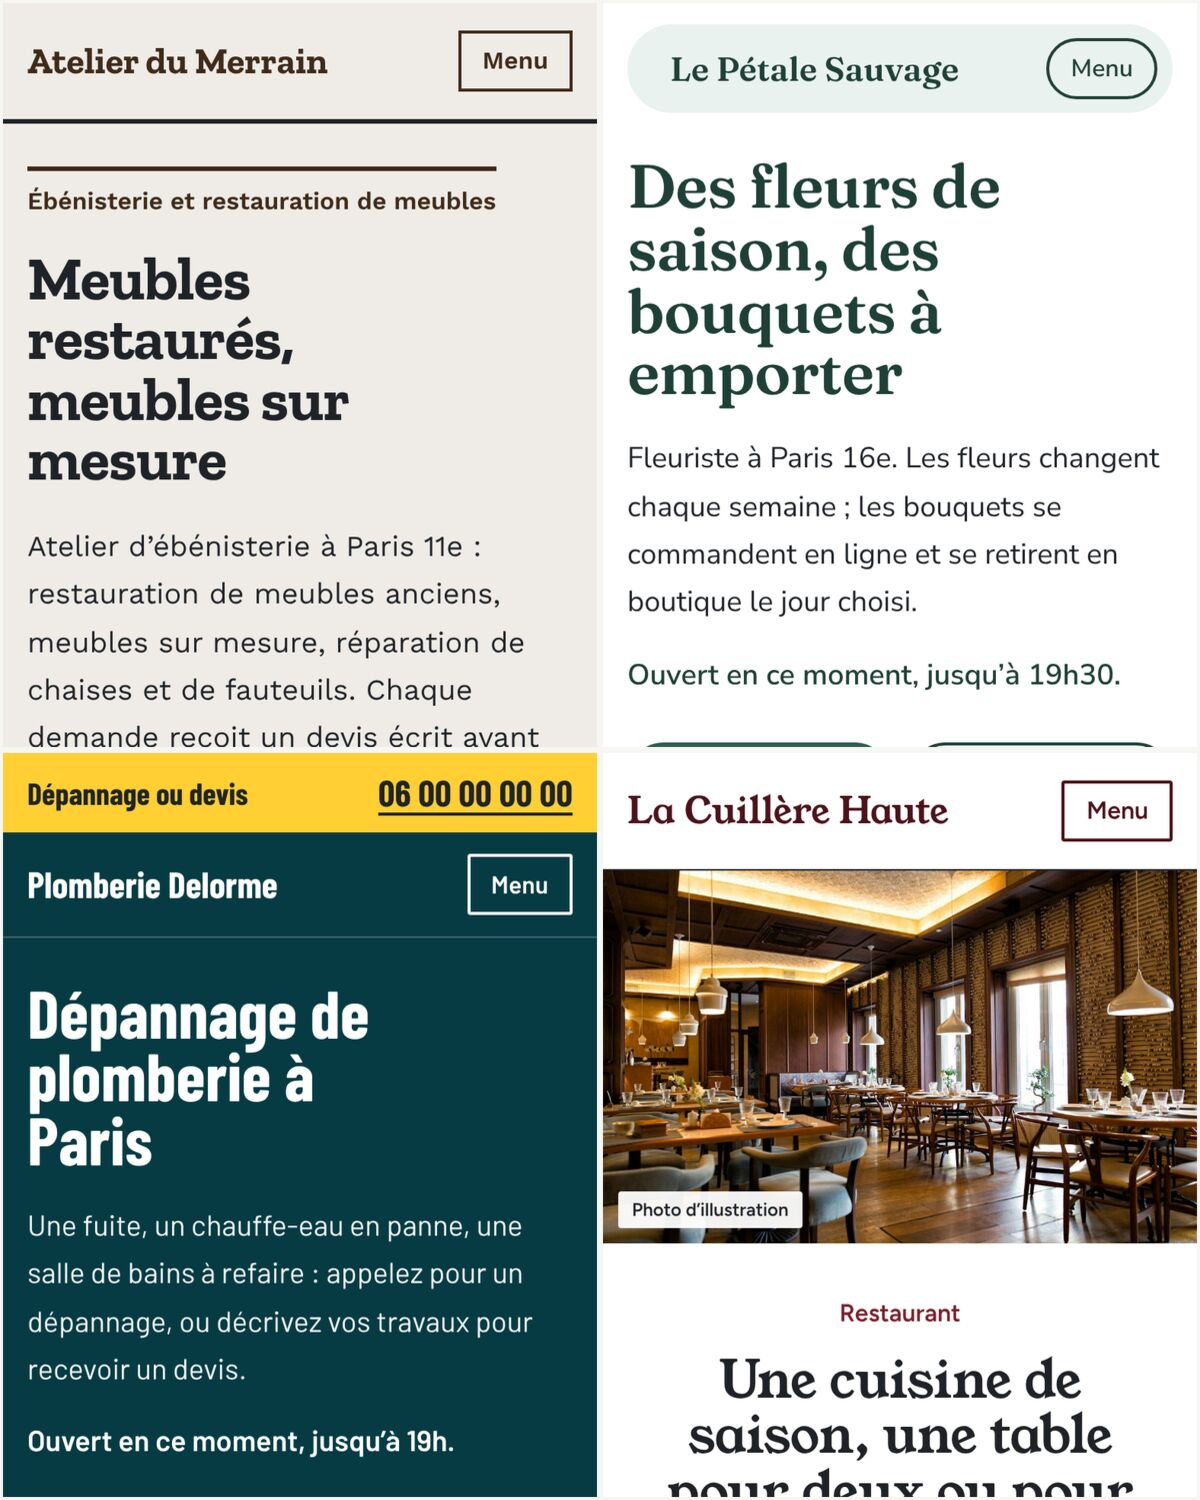
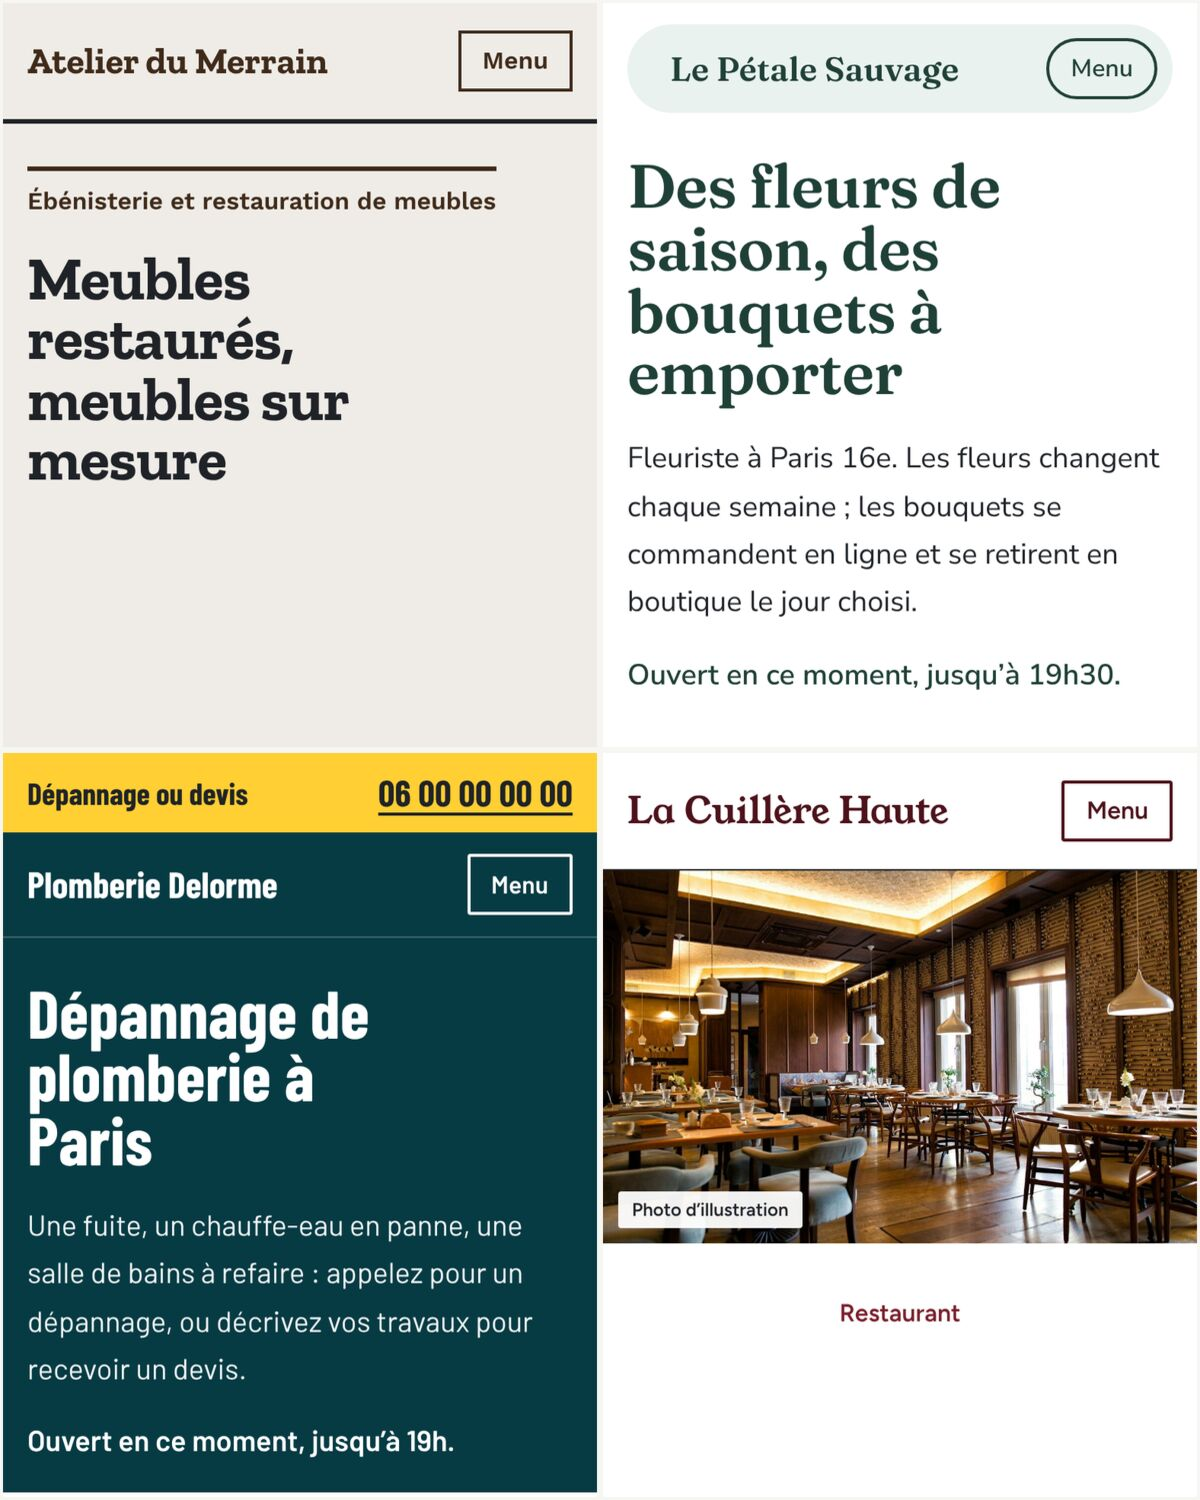
Design édition : vignettes coupées sur un bloc entier, fondus et traits sous les titres retirés, alignement du premier écran, crédits lisibles ; reprise mise à jour
Claude-Session: https://claude.ai/code/session_01KmWuHobznHmM7V82BQaya5

diff --git a/public/assets/site.css b/public/assets/site.css
@@ -522,7 +522,7 @@ select.saisie{background-image:linear-gradient(45deg,transparent 50%,var(--gris)
 /* ====== Gabarit « édition » (theme.gabarit = "edition") ======
    Une page tenue comme un document imprimé : papier blanc, encre, un seul bleu (le bleu de travail) rare et franc, angles droits, filets fins,
    titres en Besley, texte en Schibsted Grotesk. Les chiffres et les prix sont composés comme dans un tarif. Aucun dégradé, aucune pastille, aucune capitale espacée. */
-.g-edition{--r:0px;--gris:#3f444b;--bleu:var(--marine);--gut:clamp(20px,4vw,56px);--fil:1px solid var(--trait);--filfort:1px solid var(--encre);font-size:1.0625rem;line-height:1.62;font-feature-settings:"kern","liga"}
+.g-edition{--r:0px;--gris:#3f444b;--bleu:var(--marine);--gut:clamp(20px,4vw,48px);--fil:1px solid var(--trait);--filfort:1px solid var(--encre);font-size:1.0625rem;line-height:1.62;font-feature-settings:"kern","liga"}
 .g-edition [id]{scroll-margin-top:96px}
 .g-edition h1,.g-edition h2,.g-edition h3{font-family:var(--titres);font-weight:500;line-height:1.04;letter-spacing:-.02em;text-wrap:balance;color:var(--encre)}
 .g-edition h3{font-weight:600;letter-spacing:-.012em}
@@ -885,8 +885,7 @@ select.saisie{background-image:linear-gradient(45deg,transparent 50%,var(--gris)
 /* Révision 3 : un seul univers (papier, encre, bleu), le noir réservé au pied de page ; trait signature : le filet bleu */
 .g-edition .hero{padding-bottom:clamp(8px,2vw,24px)}
 .g-edition .hero + .sec{padding-top:clamp(40px,5vw,72px)}
-.g-edition .sec-tete h2::before,.g-edition .intro-txt h2::before,.g-edition .essai-txt h2::before{content:"";display:block;width:44px;height:4px;background:var(--bleu);margin-bottom:24px}
-.g-edition .intro-txt h2,.g-edition .essai-txt h2,.g-edition .sec-tete h2{font-size:clamp(1.875rem,3.4vw,2.75rem);max-width:16ch}
+.g-edition .intro-txt h2,.g-edition .essai-txt h2,.g-edition .sec-tete h2{font-size:clamp(1.875rem,3.4vw,2.75rem);max-width:20ch}
 .g-edition .etape-num{display:none}
 .g-edition .etapes>li{border-top:var(--filfort);padding-top:22px}
 .g-edition .etapes>li{position:relative}
@@ -921,7 +920,7 @@ select.saisie{background-image:linear-gradient(45deg,transparent 50%,var(--gris)
 .g-edition .intro-img{aspect-ratio:auto;height:440px;width:100%;object-fit:cover;object-position:top;-webkit-mask-image:linear-gradient(#000 calc(100% - 64px),transparent);mask-image:linear-gradient(#000 calc(100% - 64px),transparent);border:var(--fil);border-bottom:0}
 
 /* Démonstrations : quatre captures en deux colonnes, assez grandes pour être lues */
-.g-edition .essai-vue{aspect-ratio:5/4;-webkit-mask-image:linear-gradient(#000 calc(100% - 40px),transparent);mask-image:linear-gradient(#000 calc(100% - 40px),transparent);border-bottom:0}
+.g-edition .essai-vue{aspect-ratio:4/5}
 .g-edition .essai-liens{grid-template-columns:minmax(0,1fr)}
 .g-edition .essai-liens b{font-size:1.5rem}
 .g-edition .essai-liens small{font-size:1rem}
@@ -942,10 +941,12 @@ select.saisie{background-image:linear-gradient(45deg,transparent 50%,var(--gris)
 .g-edition .portrait-vide{display:none}
 .g-edition .equipe b{font-family:var(--titres);font-weight:500;font-size:1.5rem;letter-spacing:-.015em}
 .g-edition .tete-page .metier-prix{margin:20px 0 0}
-.g-edition .metier-img{-webkit-mask-image:linear-gradient(#000 calc(100% - 56px),transparent);mask-image:linear-gradient(#000 calc(100% - 56px),transparent);border-bottom:0}
 .g-edition .intro-grille:not(:has(.intro-fig)){grid-template-columns:minmax(0,1fr)}
 .g-edition .equipe{display:block}
 .g-edition .equipe li{max-width:none}
 .g-edition .equipe b{display:block}
 .g-edition .intro-grille:not(:has(.intro-fig)) .prose-grande{max-width:none;width:100%}
 .g-edition .intro-grille:not(:has(.intro-fig)) .prose-grande > :first-child{max-width:20ch}
+
+.g-edition .pied .credits{font-size:.8125rem;line-height:1.65;color:rgba(255,255,255,.72)}
+.g-edition .essai-vue .essai-img{object-position:top}

diff --git a/docs/REPRISE.md b/docs/REPRISE.md
@@ -22,6 +22,8 @@
 
 **Skills « founder »** : les scripts du dépôt MIT n'ont **pas** été exécutés (le système de permissions l'a refusé). J'ai écrit un petit script équivalent (`docs/validation-2026-10-28/panel_greg.py`) ; voir `RESULTATS.md`. Ne pas insister pour les installer sans accord explicite de Greg.
 
+**Design (révision 3, 28/10/2026).** Un seul univers visuel (papier, encre, un bleu), noir réservé au pied de page, offres en volets, démonstrations 2×2 coupées sur un bloc entier (`outils/vignettes.mjs`), capture de la page de modification lisible. Trois tours de critiques extérieures (directeur artistique 7,3 puis 6,5 sur 10 ; détecteur de look IA 22 % puis 30 % ; commerçante 7 sur 10, prendrait contact). Verdict : propre et cohérent, **pas encore une identité** ; l'écart vient surtout de l'absence de photos de Greg et d'un vrai client : `docs/PHOTOS-A-FOURNIR.md`.
+
 ## Décisions de Greg : prises par défaut le 28/10/2026
 Nom commercial « Grégoire Muel » ; domaines `gregoiremuel.fr` et `ateliermuel.fr` ; prix 590 € une fois, 1 290 €, 1 900 €, Sérénité 19 €, Croissance 49 € (1 heure), Visibilité Google 39 € ; métiers : restaurants, artisans du bâtiment, fleuristes, commerces de bouche (Paris 16e, Boulogne, Paris 15e) ; aucun pilote connu ; Opéria non cité ; salarié en parallèle (joaillerie) ; 18 à 25 ans ; pas de second compte bancaire (Crédit Agricole) ; franchise de TVA non confirmée.
 
